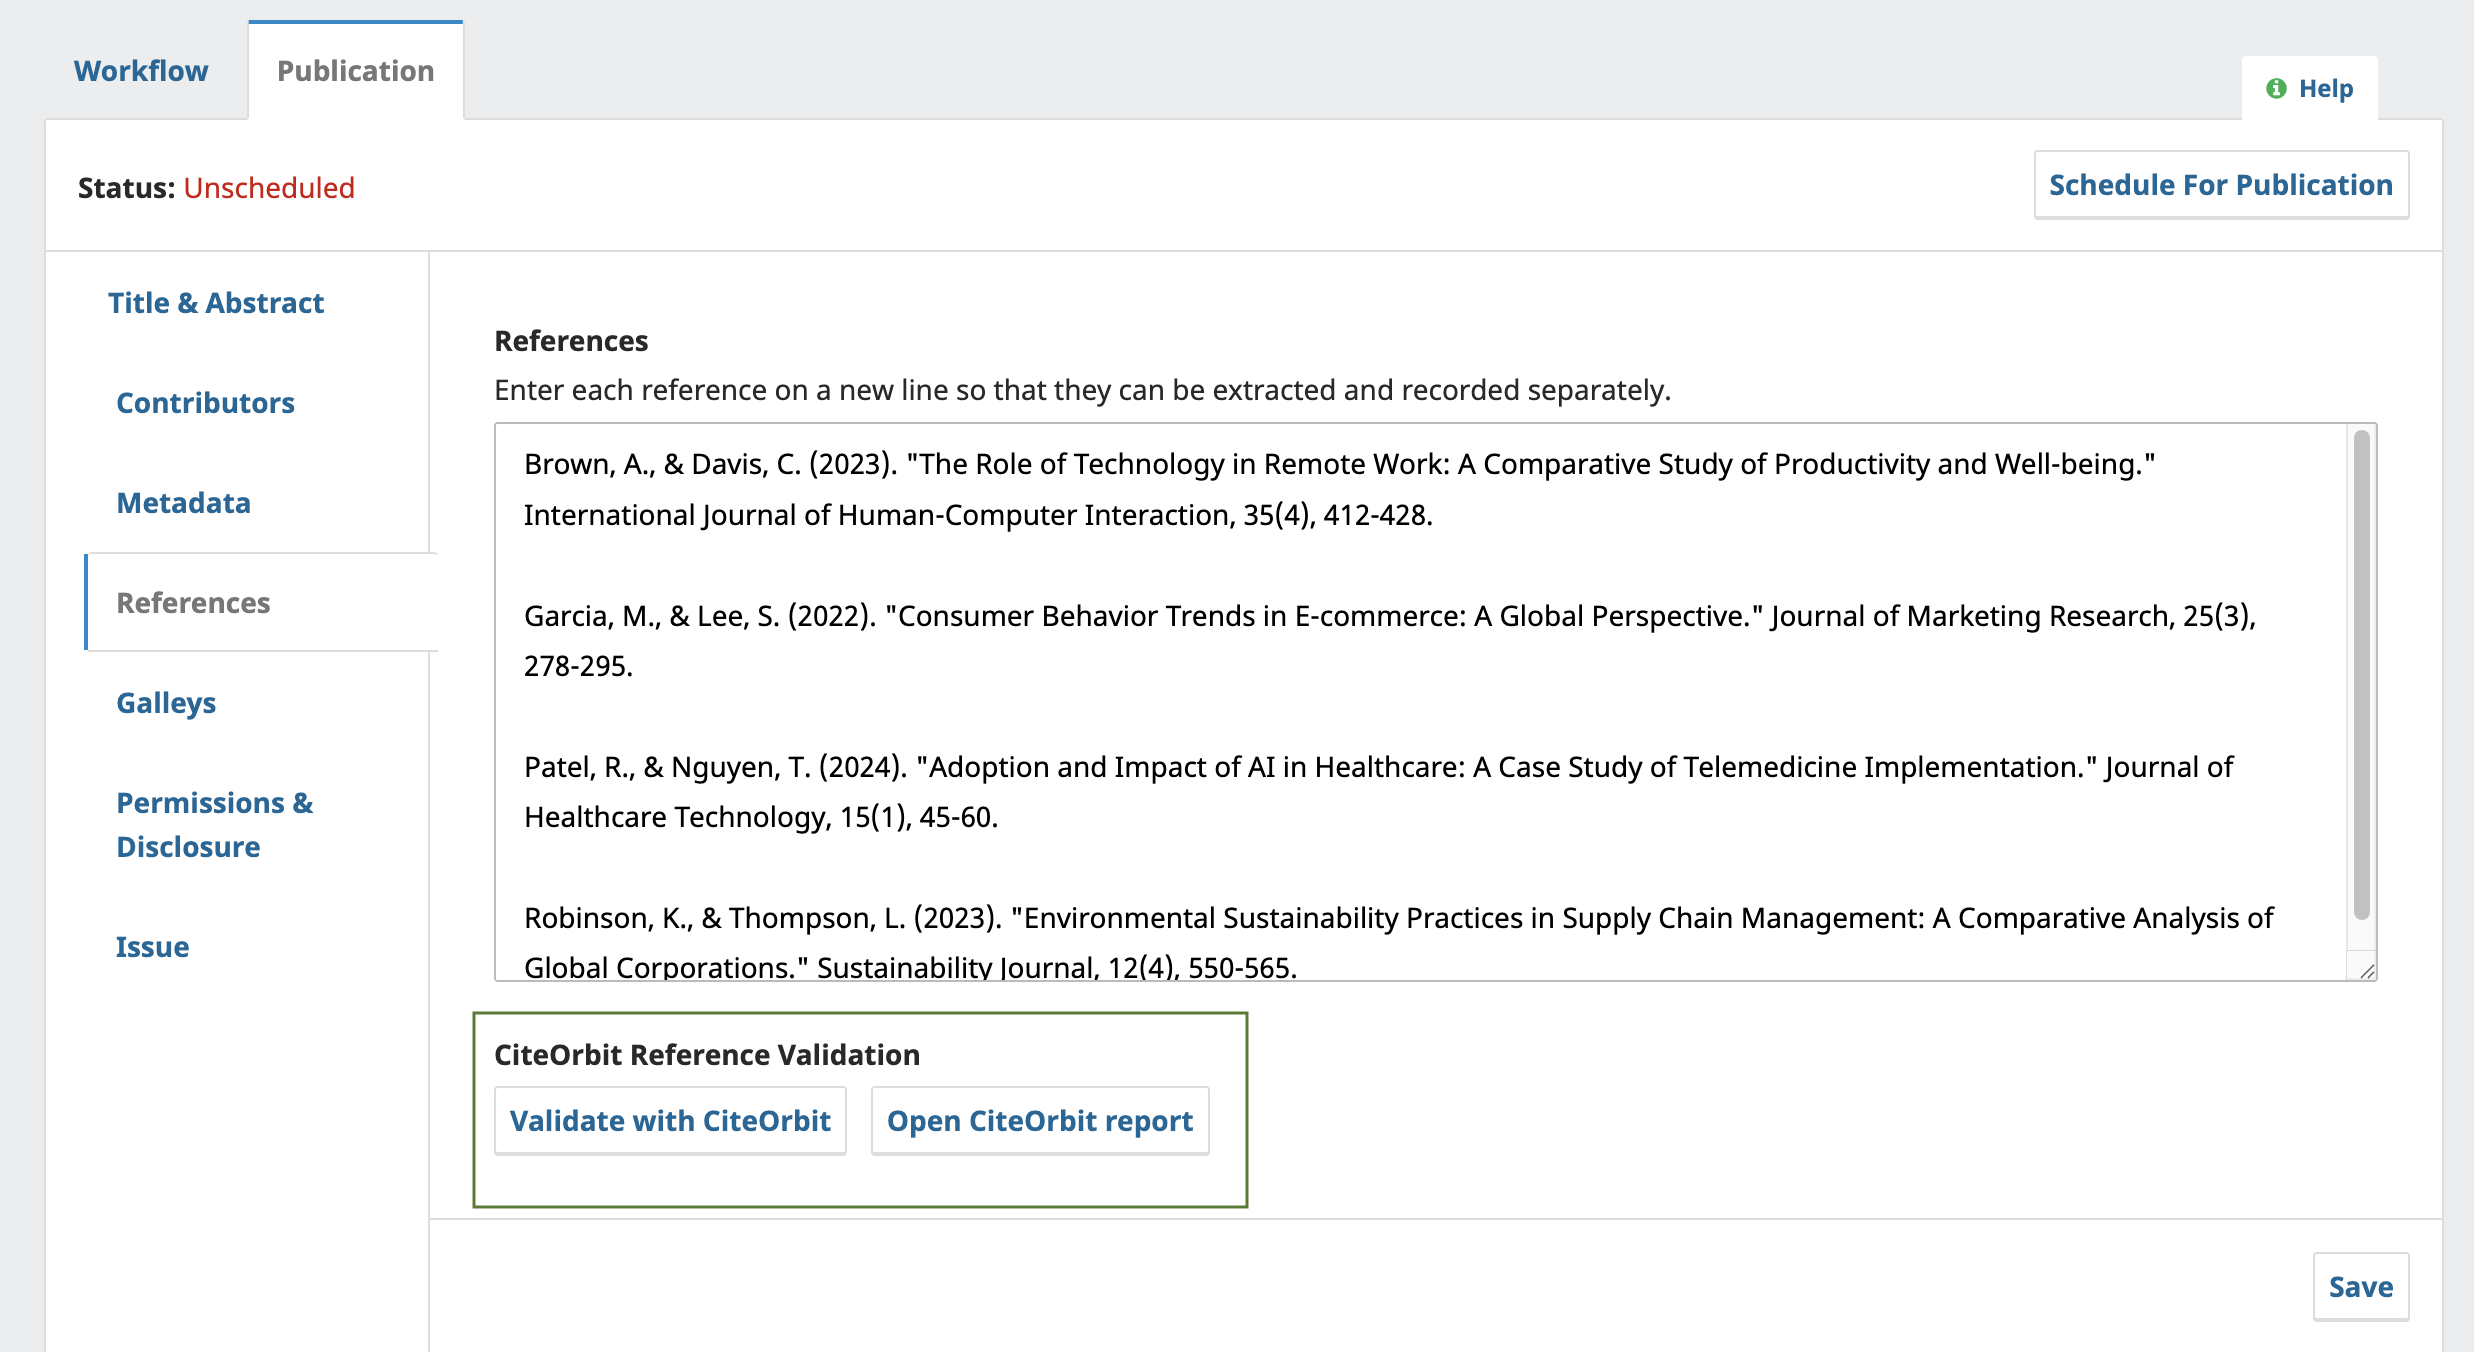
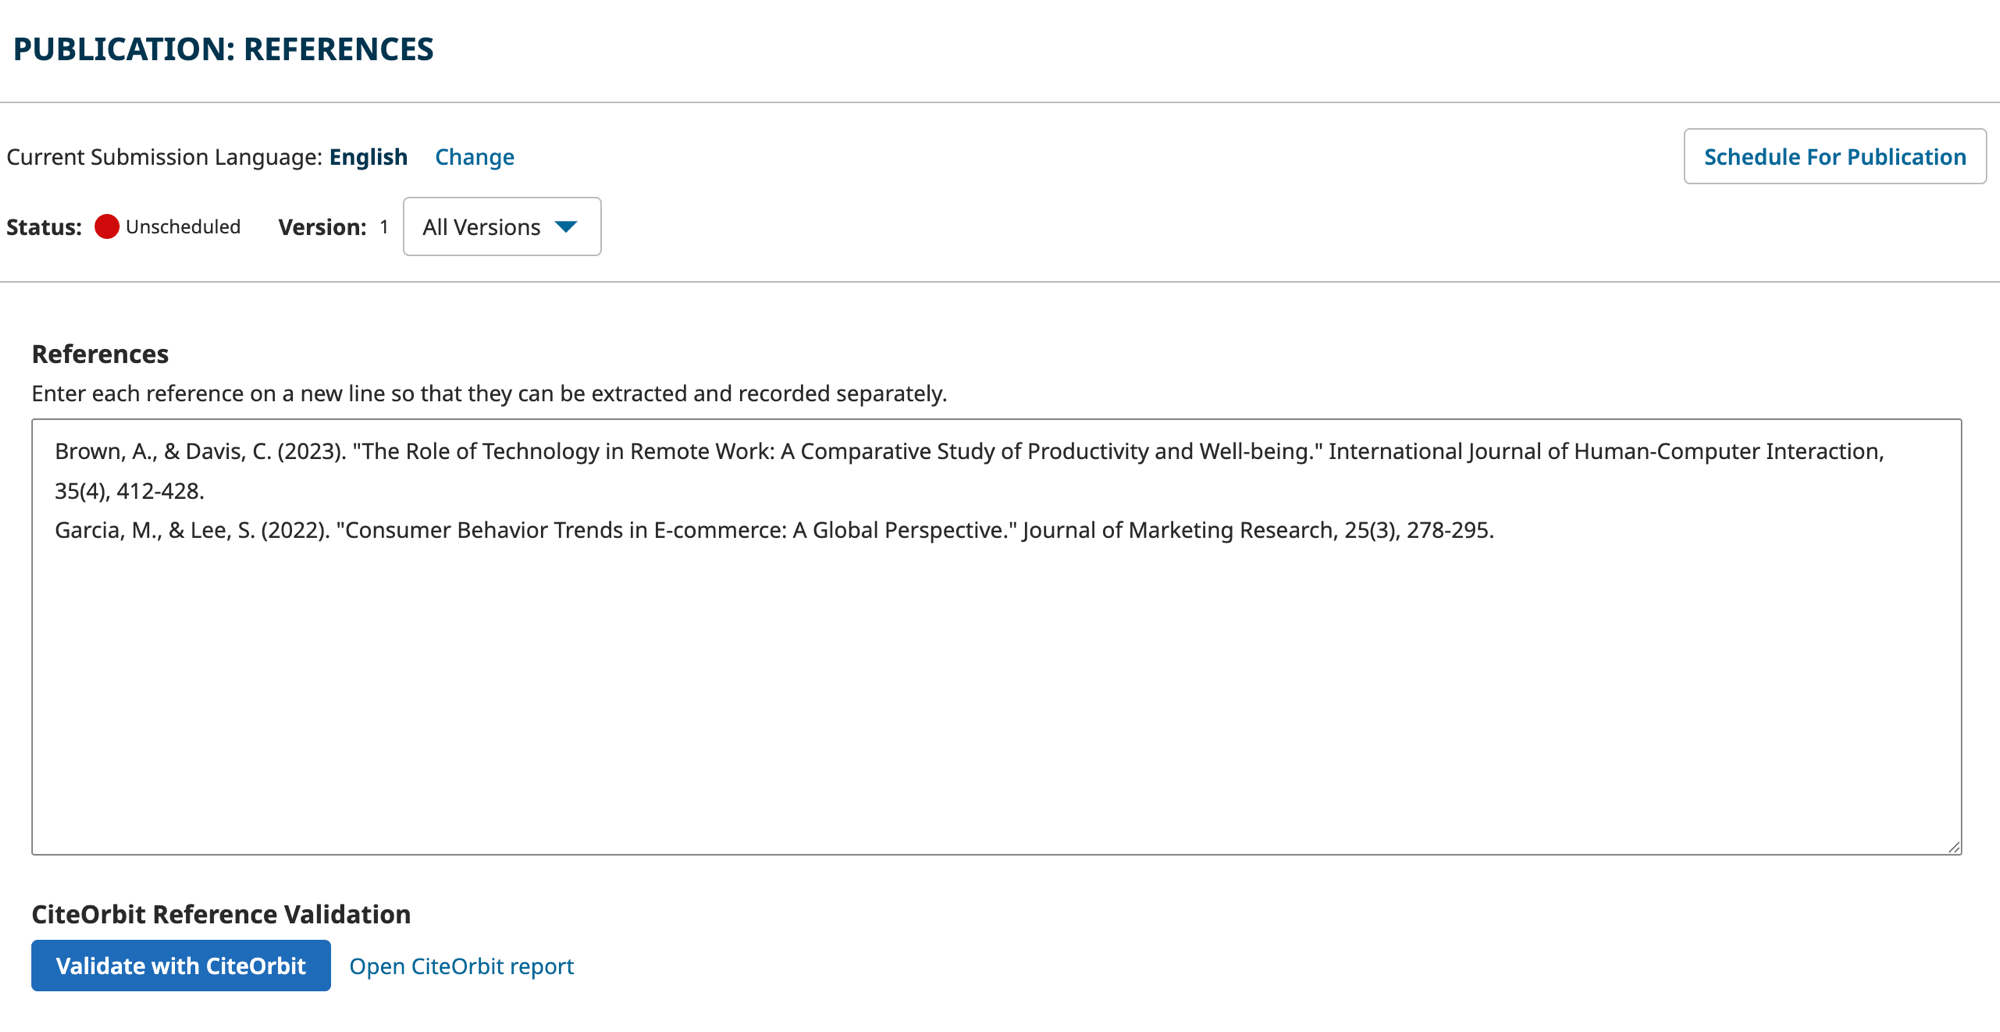
Support the OJS 3.5 workflow (Vue SPA) for references and files
3.5 moved the whole submission workflow into the editorial dashboard Vue
SPA, which broke the 3.4 UI integration. Adapt it:

- Inject the workflow script on `dashboard/editors.tpl` (there is no
  `workflow.tpl` in 3.5); the click handler is a delegated document
  listener so it binds the Vue-rendered references button.
- The SPA modal's focus-trap blocks popups (even a top-layer <dialog>),
  so confirmation is now an inline two-step button (arm, then send).
- The SPA omits the legacy `.pkpButton` styles, so style the controls
  via injected CSS.
- The new file manager is a Vue component with no server-side action
  hook, so read each manuscript row's submissionFileId from its download
  link and inject a "Validate with CiteOrbit" link after the filename.
  checkFile() now returns JSON (like the references check) so the script
  can surface the result and the "Open report" link.

Screenshots 03 (references) and 06 (file) recaptured on 3.5.

diff --git a/CiteOrbitPlugin.php b/CiteOrbitPlugin.php
@@ -289,26 +289,52 @@ class CiteOrbitPlugin extends GenericPlugin
     }
 
     /**
-     * Append the delegated click-handler script to the workflow page.
+     * Append the delegated click-handler script to the editorial dashboard.
+     *
+     * In 3.5 the submission workflow (incl. the Publication > References tab)
+     * lives inside the editorial dashboard Vue SPA — there is no workflow.tpl —
+     * so the script is injected on `dashboard/editors.tpl`. The click handler is
+     * a delegated document listener, so it still binds the References button
+     * even though Vue renders it dynamically after page load.
      *
      * @param string $hookName `TemplateManager::display`
      * @param array $args [$templateMgr, &$template, &$output]
      */
     public function injectWorkflowScript($hookName, $args)
     {
-        if (($args[1] ?? '') !== 'workflow/workflow.tpl') {
+        if (($args[1] ?? '') !== 'dashboard/editors.tpl') {
             return false;
         }
         $templateMgr = $args[0];
-        // The workflow page doesn't preload the OpenWindowRequest link-action JS,
-        // so our "Open report" grid link can't bind (renders dead/grey). Load it.
-        $templateMgr->addJavaScript(
-            'citeOrbitOpenWindowReq',
-            Application::get()->getRequest()->getBaseUrl() . '/lib/pkp/js/classes/linkAction/OpenWindowRequest.js',
-            ['contexts' => 'backend']
-        );
+
+        // Build the file-check component URL server-side (the client appends the
+        // submissionFileId it reads from each file row's download link).
+        $request = Application::get()->getRequest();
+        $context = $request->getContext();
+        $fileCheckUrl = '';
+        if ($context) {
+            $fileCheckUrl = $request->getDispatcher()->url(
+                $request,
+                Application::ROUTE_COMPONENT,
+                $context->getPath(),
+                'plugins.generic.citeOrbit.controllers.CiteOrbitHandler',
+                'checkFile'
+            );
+        }
+        $prelude = 'window.CITEORBIT_FILECHECK_URL=' . json_encode($fileCheckUrl) . ';';
+
         $js = <<<'JS'
 (function(){
+    // 3.5's dashboard SPA doesn't ship the legacy .pkpButton styles, so style our
+    // controls via injected CSS (covers the Vue-rendered, dynamically-added DOM).
+    var st = document.createElement('style');
+    st.textContent =
+        '.citeorbitCheckBtn{display:inline-block;background:#1e6bb8;color:#fff;border:none;padding:0.5rem 1rem;border-radius:4px;cursor:pointer;font-weight:600;font-size:0.9rem;line-height:1.2;}'
+      + '.citeorbitCheckBtn:hover{background:#17578f;}'
+      + '.citeorbitFileBtn{display:inline-block;background:none;border:none;color:#1e6bb8;margin-inline-start:0.75rem;padding:0;cursor:pointer;font-weight:600;font-size:0.85rem;text-decoration:underline;font-family:inherit;white-space:nowrap;}'
+      + '.citeorbitCheckBtn[data-co-armed],.citeorbitFileBtn[data-co-armed]{background:#b45309;color:#fff;text-decoration:none;border-radius:4px;padding:0.2rem 0.55rem;}'
+      + '.citeorbitReportLink{display:inline-block;margin-inline-start:0.5rem;color:#1e6bb8;text-decoration:underline;font-size:0.85rem;white-space:nowrap;}';
+    document.head.appendChild(st);
     function notify(msg, type){
         if (window.pkp && pkp.eventBus && pkp.eventBus.$emit) pkp.eventBus.$emit('notify', msg, type);
         else alert(msg);
@@ -317,24 +343,26 @@ class CiteOrbitPlugin extends GenericPlugin
         if (b.getAttribute('data-co-busy')) return;
         b.setAttribute('data-co-busy', '1');
         var token = (window.pkp && pkp.currentUser && pkp.currentUser.csrfToken) || '';
+        var body = 'csrfToken=' + encodeURIComponent(token);
+        var pub = b.getAttribute('data-co-pub');           // references only
+        if (pub) body = 'publicationId=' + encodeURIComponent(pub) + '&' + body;
         fetch(b.getAttribute('data-co-url'), {
             method: 'POST',
             headers: {'Content-Type': 'application/x-www-form-urlencoded'},
-            body: 'publicationId=' + encodeURIComponent(b.getAttribute('data-co-pub')) +
-                  '&csrfToken=' + encodeURIComponent(token)
+            body: body
         }).then(function(r){ return r.json(); }).then(function(d){
             var c = (d && d.content) || {};
             notify(c.message || 'Done', c.ok ? 'success' : 'warning');
             if (c.ok && c.reportUrl) {
-                var prev = document.getElementById('citeorbitReportLink');
-                if (prev) prev.remove();
+                var nx = b.nextElementSibling;
+                if (nx && nx.classList && nx.classList.contains('citeorbitReportLink')) nx.remove();
+                var srv = document.getElementById('citeorbitReportLink'); // server-rendered (refs)
+                if (srv && pub) srv.remove();
                 var a = document.createElement('a');
-                a.id = 'citeorbitReportLink';
+                a.className = 'citeorbitReportLink';
                 a.href = c.reportUrl; a.target = '_blank'; a.rel = 'noopener';
-                a.className = 'pkpButton';
-                a.style.marginInlineStart = '0.5rem';
                 a.textContent = 'Open CiteOrbit report';
-                if (b.parentNode) b.parentNode.appendChild(a);
+                b.insertAdjacentElement('afterend', a);
             }
             b.removeAttribute('data-co-busy');
         }).catch(function(err){
@@ -342,48 +370,80 @@ class CiteOrbitPlugin extends GenericPlugin
             b.removeAttribute('data-co-busy');
         });
     }
-    // Lightweight in-page confirmation modal (avoids the native browser dialog).
-    function confirmModal(message, onConfirm){
-        var ov = document.createElement('div');
-        ov.style.cssText = 'position:fixed;inset:0;background:rgba(0,0,0,0.45);z-index:100000;display:flex;align-items:center;justify-content:center;';
-        var card = document.createElement('div');
-        card.style.cssText = 'background:#fff;max-width:440px;width:90%;border-radius:6px;box-shadow:0 12px 40px rgba(0,0,0,0.25);padding:1.5rem 1.5rem 1.25rem;font-family:inherit;';
-        var h = document.createElement('h2');
-        h.textContent = 'Validate with CiteOrbit';
-        h.style.cssText = 'margin:0 0 0.75rem;font-size:1.1rem;color:#002c40;';
-        var p = document.createElement('p');
-        p.textContent = message;
-        p.style.cssText = 'margin:0 0 1.25rem;color:#333;line-height:1.5;';
-        var row = document.createElement('div');
-        row.style.cssText = 'display:flex;gap:0.5rem;justify-content:flex-end;';
-        var cancel = document.createElement('button');
-        cancel.type = 'button'; cancel.className = 'pkpButton'; cancel.textContent = 'Cancel';
-        cancel.style.cssText = 'background:#e8eaed;color:#1a1a1a;';
-        var ok = document.createElement('button');
-        ok.type = 'button'; ok.className = 'pkpButton'; ok.textContent = 'Send to CiteOrbit';
-        function close(){ if (ov.parentNode) ov.parentNode.removeChild(ov); }
-        cancel.addEventListener('click', close);
-        ov.addEventListener('click', function(ev){ if (ev.target === ov) close(); });
-        ok.addEventListener('click', function(){ close(); onConfirm(); });
-        row.appendChild(cancel); row.appendChild(ok);
-        card.appendChild(h); card.appendChild(p); card.appendChild(row);
-        ov.appendChild(card); document.body.appendChild(ov);
-        ok.focus();
+    // 3.5 opens the workflow inside a Vue modal whose focus-trap blocks clicks
+    // outside its container, so a popup confirm can't be made reliably clickable.
+    // Confirm inline instead: first click arms the control (relabel + amber "uses
+    // credits" warning), second click sends. The controls live inside the
+    // interactive workflow modal, so their clicks work.
+    var armedEl = null, armedTimer = null;
+    function disarm(){
+        if (armedTimer) { clearTimeout(armedTimer); armedTimer = null; }
+        if (armedEl) {
+            if (armedEl.getAttribute('data-co-label') !== null) armedEl.textContent = armedEl.getAttribute('data-co-label');
+            armedEl.removeAttribute('data-co-armed');
+        }
+        armedEl = null;
     }
     document.addEventListener('click', function(e){
-        var b = e.target && e.target.closest ? e.target.closest('.citeorbitCheckBtn') : null;
+        var b = e.target && e.target.closest ? e.target.closest('.citeorbitCheckBtn,.citeorbitFileBtn') : null;
         if (!b || b.getAttribute('data-co-busy')) return;
         e.preventDefault();
-        var count = b.getAttribute('data-co-count');
-        var refs = (count && count !== '0') ? (count + ' references') : 'these references';
-        confirmModal(
-            'Send ' + refs + ' to CiteOrbit for validation? This uses credits from your CiteOrbit workspace.',
-            function(){ runCheck(b); }
-        );
+        if (armedEl === b) { disarm(); runCheck(b); return; }   // 2nd click -> send
+        if (armedEl) disarm();                                   // switching controls
+        if (b.getAttribute('data-co-label') === null) b.setAttribute('data-co-label', b.textContent);
+        var armedTxt;
+        if (b.classList.contains('citeorbitFileBtn')) {
+            armedTxt = 'Click again to validate — uses credits';
+        } else {
+            var count = b.getAttribute('data-co-count');
+            var refs = (count && count !== '0') ? (count + ' references') : 'these references';
+            armedTxt = 'Click again to send ' + refs + ' — uses credits';
+        }
+        b.textContent = armedTxt;
+        b.setAttribute('data-co-armed', '1');
+        armedEl = b;
+        armedTimer = setTimeout(disarm, 6000);
     }, false);
+
+    // Inject a "Validate with CiteOrbit" control into each manuscript file row.
+    // The new 3.5 file manager is a Vue component with no server-side hook, so we
+    // read the submissionFileId from the row's download link and add the control
+    // to the row's last cell. A MutationObserver re-adds it if Vue re-renders.
+    function injectFileButtons(){
+        if (!window.CITEORBIT_FILECHECK_URL) return;
+        var links = document.querySelectorAll('a[href*="submissionFileId="]');
+        for (var i = 0; i < links.length; i++) {
+            var a = links[i];
+            var name = (a.textContent || '').trim().toLowerCase();
+            if (!/\.(docx|doc|odt)$/.test(name)) continue;   // types CiteOrbit handles (PDF is rejected)
+            var m = a.href.match(/submissionFileId=(\d+)/);
+            if (!m) continue;
+            var row = a.closest('tr') || a.closest('li');
+            if (!row || row.querySelector('.citeorbitFileBtn')) continue;
+            var sep = window.CITEORBIT_FILECHECK_URL.indexOf('?') > -1 ? '&' : '?';
+            var btn = document.createElement('button');
+            btn.type = 'button';
+            btn.className = 'citeorbitFileBtn';
+            btn.setAttribute('data-co-file', m[1]);
+            btn.setAttribute('data-co-url', window.CITEORBIT_FILECHECK_URL + sep + 'submissionFileId=' + m[1]);
+            btn.textContent = 'Validate with CiteOrbit';
+            // Place it in the wide FILE NAME cell, right after the filename link.
+            var span = a.closest('span') || a;
+            span.insertAdjacentElement('afterend', btn);
+        }
+    }
+    var moTimer = null;
+    function startFileInjection(){
+        injectFileButtons();
+        new MutationObserver(function(){ clearTimeout(moTimer); moTimer = setTimeout(injectFileButtons, 300); })
+            .observe(document.body, {childList: true, subtree: true});
+    }
+    // The inline script runs in <head>, so document.body may not exist yet — wait for it.
+    if (document.readyState === 'loading') { document.addEventListener('DOMContentLoaded', startFileInjection); }
+    else { startFileInjection(); }
 })();
 JS;
-        $templateMgr->addJavaScript('citeOrbitButtonHandler', $js, ['inline' => true, 'contexts' => 'backend']);
+        $templateMgr->addJavaScript('citeOrbitButtonHandler', $prelude . $js, ['inline' => true, 'contexts' => 'backend']);
         return false;
     }
 

diff --git a/controllers/CiteOrbitHandler.php b/controllers/CiteOrbitHandler.php
@@ -15,11 +15,9 @@ use APP\core\Application;
 use APP\core\Services;
 use APP\facades\Repo;
 use APP\handler\Handler;
-use APP\notification\NotificationManager;
 use APP\plugins\generic\citeOrbit\CiteOrbitPlugin;
 use PKP\core\JSONMessage;
 use PKP\db\DAORegistry;
-use PKP\notification\Notification;
 use PKP\plugins\PluginRegistry;
 use PKP\security\authorization\ContextAccessPolicy;
 use PKP\security\Role;
@@ -182,30 +180,30 @@ class CiteOrbitHandler extends Handler
         $submissionFileId = (int) $request->getUserVar('submissionFileId');
         $key = $this->plugin->getSetting($context->getId(), 'apiKey');
         if (!$key) {
-            return $this->notify($request, Notification::NOTIFICATION_TYPE_ERROR, __('plugins.generic.citeOrbit.error.key'));
+            return $this->msg(false, __('plugins.generic.citeOrbit.error.key'));
         }
 
         $submissionFile = Repo::submissionFile()->get($submissionFileId);
         if (!$submissionFile) {
-            return $this->notify($request, Notification::NOTIFICATION_TYPE_ERROR, 'File not found.');
+            return $this->msg(false, 'File not found.');
         }
 
         // PDF is not supported for manuscript validation — reject before doing
         // any work (no upload, no credits spent).
         if (strtolower((string) $submissionFile->getData('mimetype')) === 'application/pdf') {
-            return $this->notify($request, Notification::NOTIFICATION_TYPE_WARNING, 'CiteOrbit does not support PDF file types.');
+            return $this->msg(false, 'CiteOrbit does not support PDF file types.');
         }
 
         $fileService = Services::get('file');
         $file = $fileService->get($submissionFile->getData('fileId'));
         if (!$file || !$fileService->fs->has($file->path)) {
-            return $this->notify($request, Notification::NOTIFICATION_TYPE_ERROR, 'This file could not be read on the server.');
+            return $this->msg(false, 'This file could not be read on the server.');
         }
         try {
             $contents = $fileService->fs->read($file->path);
         } catch (\Throwable $e) {
             error_log('[CiteOrbit] file read failed: ' . $e->getMessage());
-            return $this->notify($request, Notification::NOTIFICATION_TYPE_ERROR, 'This file could not be read on the server.');
+            return $this->msg(false, 'This file could not be read on the server.');
         }
         $filename = $submissionFile->getLocalizedData('name') ?: 'manuscript';
         $mime = (string) $submissionFile->getData('mimetype');
@@ -229,34 +227,27 @@ class CiteOrbitHandler extends Handler
             $body = json_decode((string) $response->getBody(), true) ?: [];
         } catch (\Throwable $e) {
             error_log('[CiteOrbit] file-check connection error: ' . $e->getMessage());
-            return $this->notify($request, Notification::NOTIFICATION_TYPE_ERROR, "Couldn't reach CiteOrbit. Please try again in a moment.");
+            return $this->msg(false, "Couldn't reach CiteOrbit. Please try again in a moment.");
         }
 
         $code = $body['code'] ?? '';
         $message = $body['message'] ?? 'Unexpected response from CiteOrbit.';
         if ($code === 'queued') {
             $reportId = $body['report_id'] ?? '';
-            // Persist on the file so the grid shows a persistent "Open report"
-            // link (best-effort). Refresh this row so the link appears at once.
+            // Persist on the file so the "Open report" link survives a reload
+            // (best-effort: the check already succeeded regardless).
             try {
                 Repo::submissionFile()->edit($submissionFile, [CiteOrbitPlugin::REPORT_ID_FIELD => $reportId]);
             } catch (\Throwable $e) {
                 error_log('[CiteOrbit] could not persist file report id: ' . $e->getMessage());
             }
-            return $this->notify($request, Notification::NOTIFICATION_TYPE_SUCCESS, __('plugins.generic.citeOrbit.notify.queuedFile'), $submissionFileId);
+            $reportUrl = rtrim($this->plugin->getReportBaseUrl(), '/') . '/check-references/by-check/' . $reportId;
+            return $this->msg(true, __('plugins.generic.citeOrbit.notify.queuedFile'), ['reportUrl' => $reportUrl, 'reportId' => $reportId]);
         }
-        $type = ($code === 'insufficient_credits') ? Notification::NOTIFICATION_TYPE_WARNING : Notification::NOTIFICATION_TYPE_ERROR;
-        return $this->notify($request, $type, $message);
-    }
-
-    private function notify($request, int $type, string $message, ?int $elementId = null): JSONMessage
-    {
-        $mgr = new NotificationManager();
-        $mgr->createTrivialNotification($request->getUser()->getId(), $type, ['contents' => $message]);
-        // Return a data-changed event (not a bare JSONMessage) so OJS refreshes
-        // the affected grid row (revealing the new "Open report" link) and
-        // fetches the pending notification.
-        return \PKP\db\DAO::getDataChangedEvent($elementId);
+        if (!empty($body['topup_url'])) {
+            $message .= ' (' . $body['topup_url'] . ')';
+        }
+        return $this->msg(false, $message);
     }
 
     private function msg(bool $ok, string $message, array $extra = []): JSONMessage